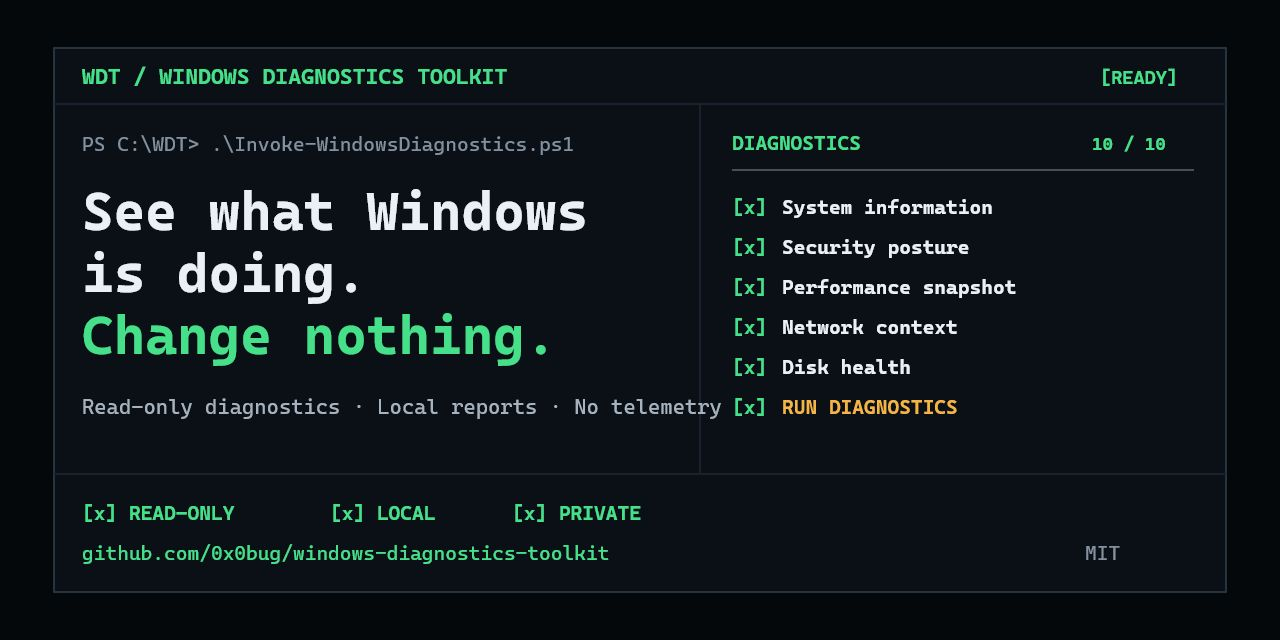
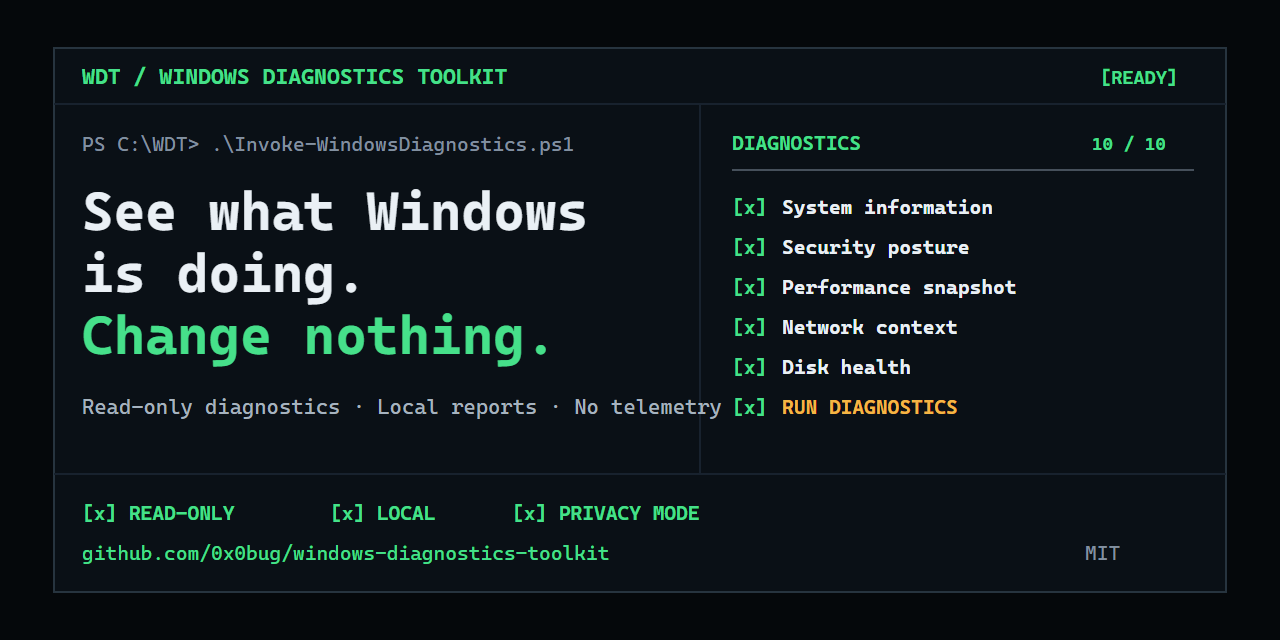
fix: align social and structured metadata

diff --git a/cases/windows-diagnostic-report-for-tech-support.html b/cases/windows-diagnostic-report-for-tech-support.html
@@ -44,17 +44,16 @@
         "name": "Create a Windows diagnostic report for tech support",
         "description": "Generate and review a local Windows diagnostic report using Windows Diagnostics Toolkit and Privacy Mode.",
         "url": "https://wdt.digital/cases/windows-diagnostic-report-for-tech-support.html",
-        "totalTime": "PT5M",
         "tool": [
           {"@type": "HowToTool", "name": "Windows PowerShell 5.1 or PowerShell 7"},
           {"@type": "HowToTool", "name": "Windows Diagnostics Toolkit"}
         ],
         "step": [
-          {"@type": "HowToStep", "position": 1, "name": "Download the toolkit", "text": "Clone or download Windows Diagnostics Toolkit from GitHub."},
-          {"@type": "HowToStep", "position": 2, "name": "Run the combined report", "text": "Run Invoke-WindowsDiagnostics.ps1 with All, PrivacyMode and ExportMarkdown."},
-          {"@type": "HowToStep", "position": 3, "name": "Review the findings", "text": "Read the findings summary and the relevant detailed sections."},
-          {"@type": "HowToStep", "position": 4, "name": "Review privacy", "text": "Inspect the final report manually and remove any remaining sensitive information."},
-          {"@type": "HowToStep", "position": 5, "name": "Share the minimum evidence", "text": "Attach only the relevant redacted report or excerpt to the support request."}
+          {"@type": "HowToStep", "position": 1, "name": "Clone and create the combined Windows report", "text": "Clone Windows Diagnostics Toolkit with the current Quick start workflow, open PowerShell in the toolkit directory and run the combined report command.", "url": "https://wdt.digital/cases/windows-diagnostic-report-for-tech-support.html#run"},
+          {"@type": "HowToStep", "position": 2, "name": "Understand what the report contains", "text": "Actionable conditions are grouped as OK, WARN or ERROR before the detailed diagnostic output.", "url": "https://wdt.digital/cases/windows-diagnostic-report-for-tech-support.html#contents"},
+          {"@type": "HowToStep", "position": 3, "name": "Read the report efficiently", "text": "Start with the overall status and findings summary.", "url": "https://wdt.digital/cases/windows-diagnostic-report-for-tech-support.html#review"},
+          {"@type": "HowToStep", "position": 4, "name": "Review privacy before sharing", "text": "Privacy Mode replaces common computer names, user names, profile paths, IP and MAC addresses, SIDs, GUIDs and device identifiers with stable per-report tokens.", "url": "https://wdt.digital/cases/windows-diagnostic-report-for-tech-support.html#privacy"},
+          {"@type": "HowToStep", "position": 5, "name": "Attach useful evidence to the support request", "text": "A useful report is accompanied by a short description of the symptom.", "url": "https://wdt.digital/cases/windows-diagnostic-report-for-tech-support.html#support"}
         ],
         "author": {"@type": "Person", "name": "0x0bug", "url": "https://github.com/0x0bug"},
         "inLanguage": "en"
@@ -90,8 +89,8 @@
 
     <div class="toc"><strong>On this page</strong><ul><li><a href="#run">Create the report</a></li><li><a href="#contents">What the report contains</a></li><li><a href="#privacy">Prepare it for sharing</a></li><li><a href="#support">Attach useful evidence</a></li></ul></div>
 
-    <h2 id="run">1. Create the combined Windows report</h2>
-    <p>Open PowerShell in the toolkit directory and run:</p>
+    <h2 id="run">1. Clone and create the combined Windows report</h2>
+    <p>Clone Windows Diagnostics Toolkit with the current <a href="https://github.com/0x0bug/windows-diagnostics-toolkit#quick-start">Quick start workflow</a>, open PowerShell in the toolkit directory and run the combined report command.</p>
     <div class="panel article-command"><div class="panel-hd"><span class="ttl">PowerShell</span><span class="end"><button type="button" class="wbtn wbtn--mini" data-copy-target="article-command" data-copy-status="article-copy-status" aria-label="Copy the PowerShell command">COPY</button></span></div><pre class="mono-block" id="article-command"><code>pwsh -NoProfile -File .\Invoke-WindowsDiagnostics.ps1 `
   -All -PrivacyMode -ExportMarkdown</code></pre></div><span id="article-copy-status" class="sr-only" role="status" aria-live="polite" aria-atomic="true"></span>
     <p>For Windows PowerShell 5.1:</p>
@@ -110,7 +109,7 @@
       <section class="card"><h3>Crashes and Event Logs</h3><p>Recent application failures, hangs, BugCheck events, dump metadata and critical or error events.</p></section>
     </div>
 
-    <h2>3. Read the report efficiently</h2>
+    <h2 id="review">3. Read the report efficiently</h2>
     <ol>
       <li>Start with the overall status and findings summary.</li>
       <li>Match each warning or error to the symptom and time when the problem occurred.</li>
@@ -155,7 +154,7 @@
       <a href="windows-update-pending-reboot.html">Check update and reboot indicators</a>
     </div>
 
-    <div class="actions"><a class="button primary" href="https://github.com/0x0bug/windows-diagnostics-toolkit#quick-start">Download and run the toolkit</a><a class="button" href="https://github.com/0x0bug/windows-diagnostics-toolkit/blob/main/docs/report-example.md">View the example report</a></div>
+    <div class="actions"><a class="button primary" href="https://github.com/0x0bug/windows-diagnostics-toolkit#quick-start">Clone and run the toolkit</a><a class="button" href="https://github.com/0x0bug/windows-diagnostics-toolkit/blob/main/docs/report-example.md">View the example report</a></div>
   </article>
 </main>
 <footer><div class="wrap">Reports remain local until the user chooses to share them.</div></footer>

diff --git a/cases/index.html b/cases/index.html
@@ -96,9 +96,12 @@
 </div>
 </header>
 <main id="main-content" class="sec route-in">
-<p class="crumbs">
-<a href="../">Home</a> / <span class="path">~/guides</span>
-</p>
+<nav class="crumbs" aria-label="Breadcrumb">
+<ol>
+<li><a href="../">Home</a></li>
+<li><span class="path" aria-current="page">~/guides</span></li>
+</ol>
+</nav>
 <span class="kicker">Guide library</span>
 <h1 class="h-display" style="font-size: clamp(30px, 4.6vw, 58px);">Windows guides that start with the symptom.</h1>
 <p class="lede">Pick what you are seeing. Each guide names the check to run, the evidence it produces and what it deliberately leaves untouched.</p>
